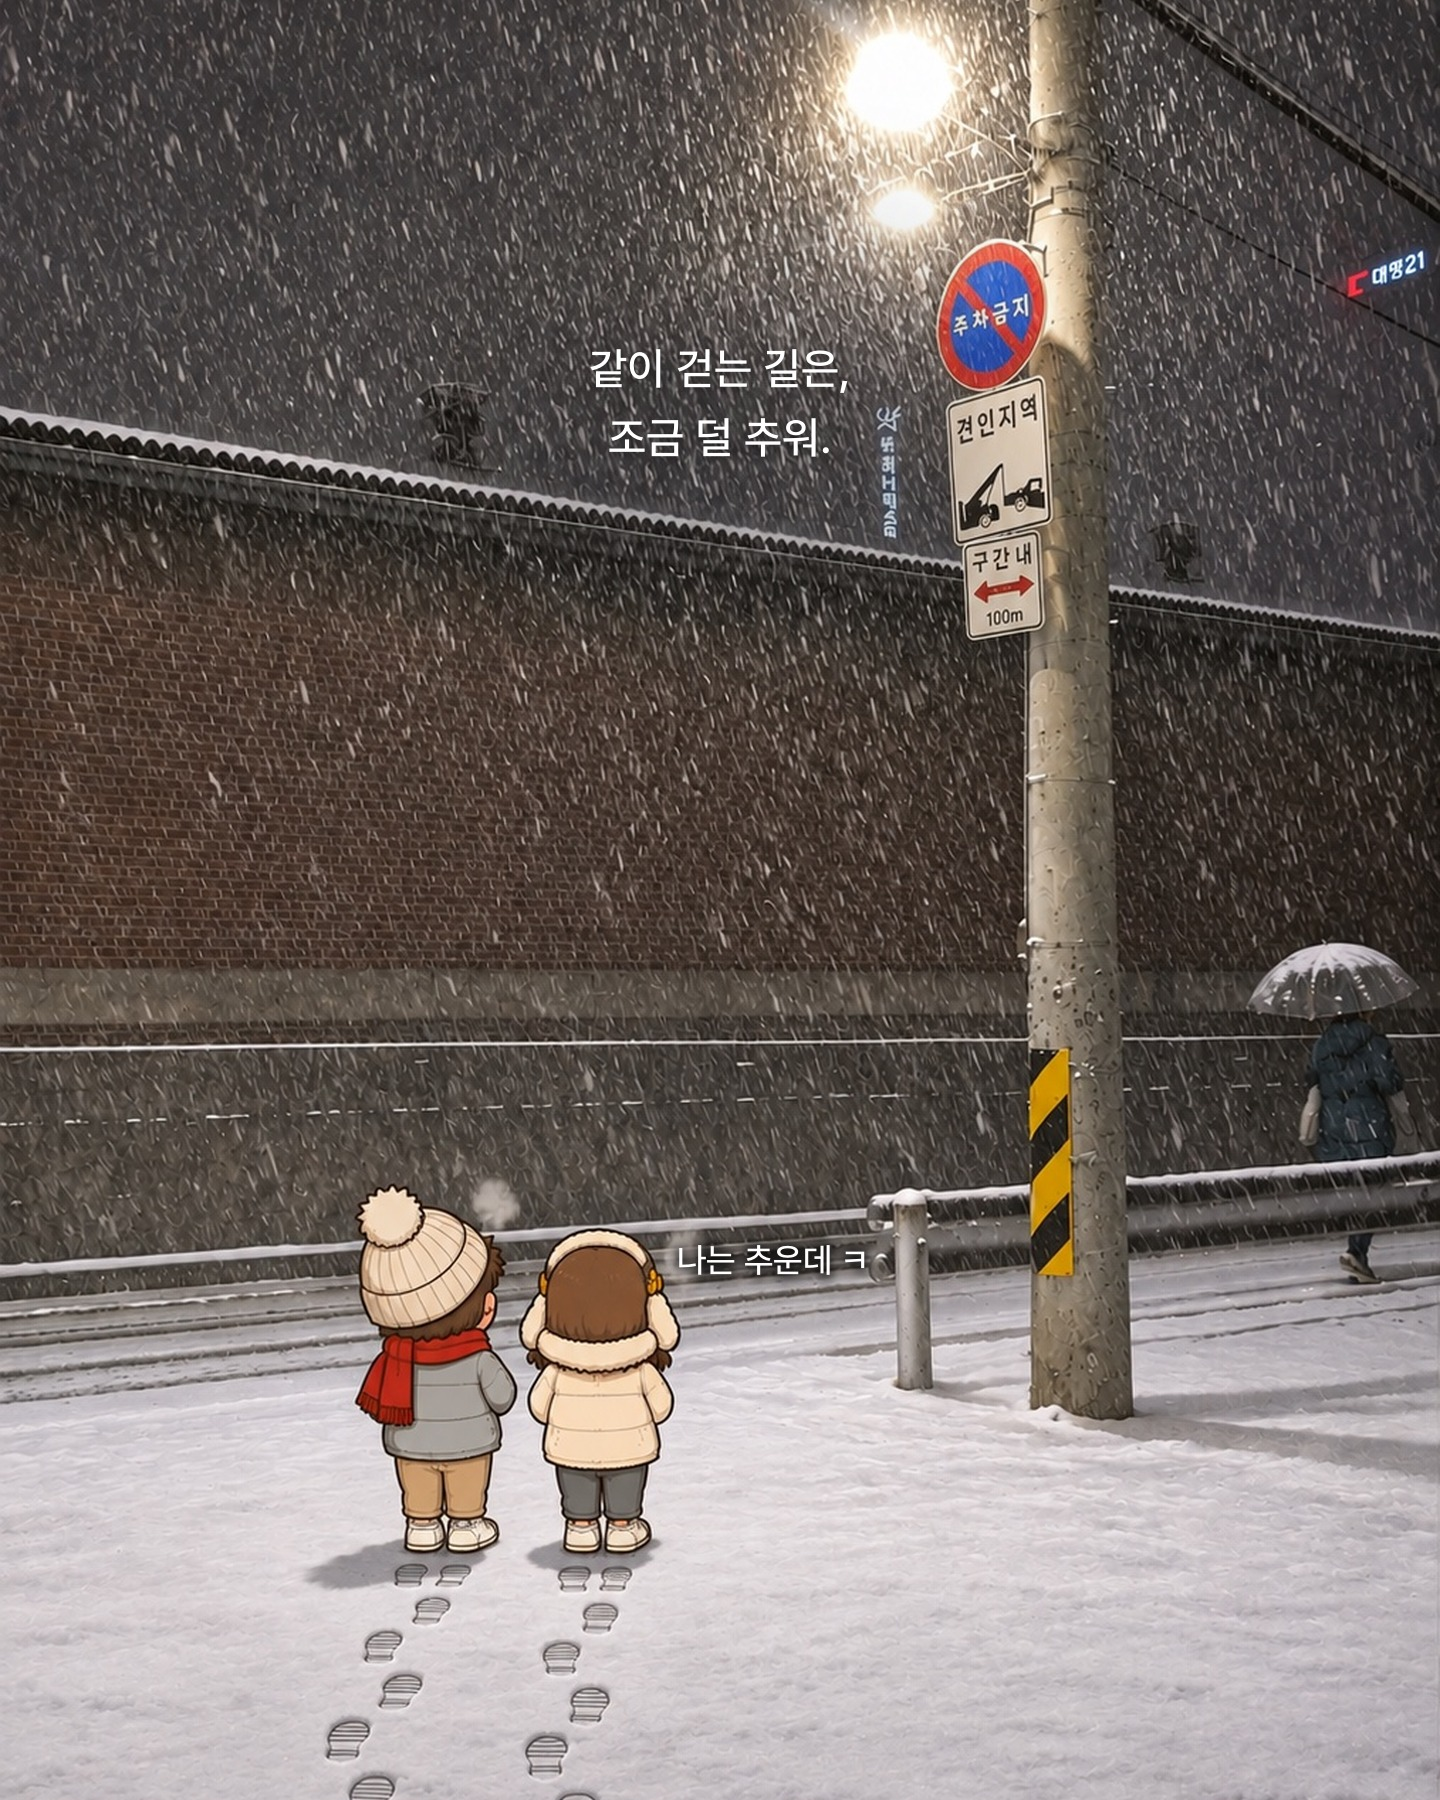
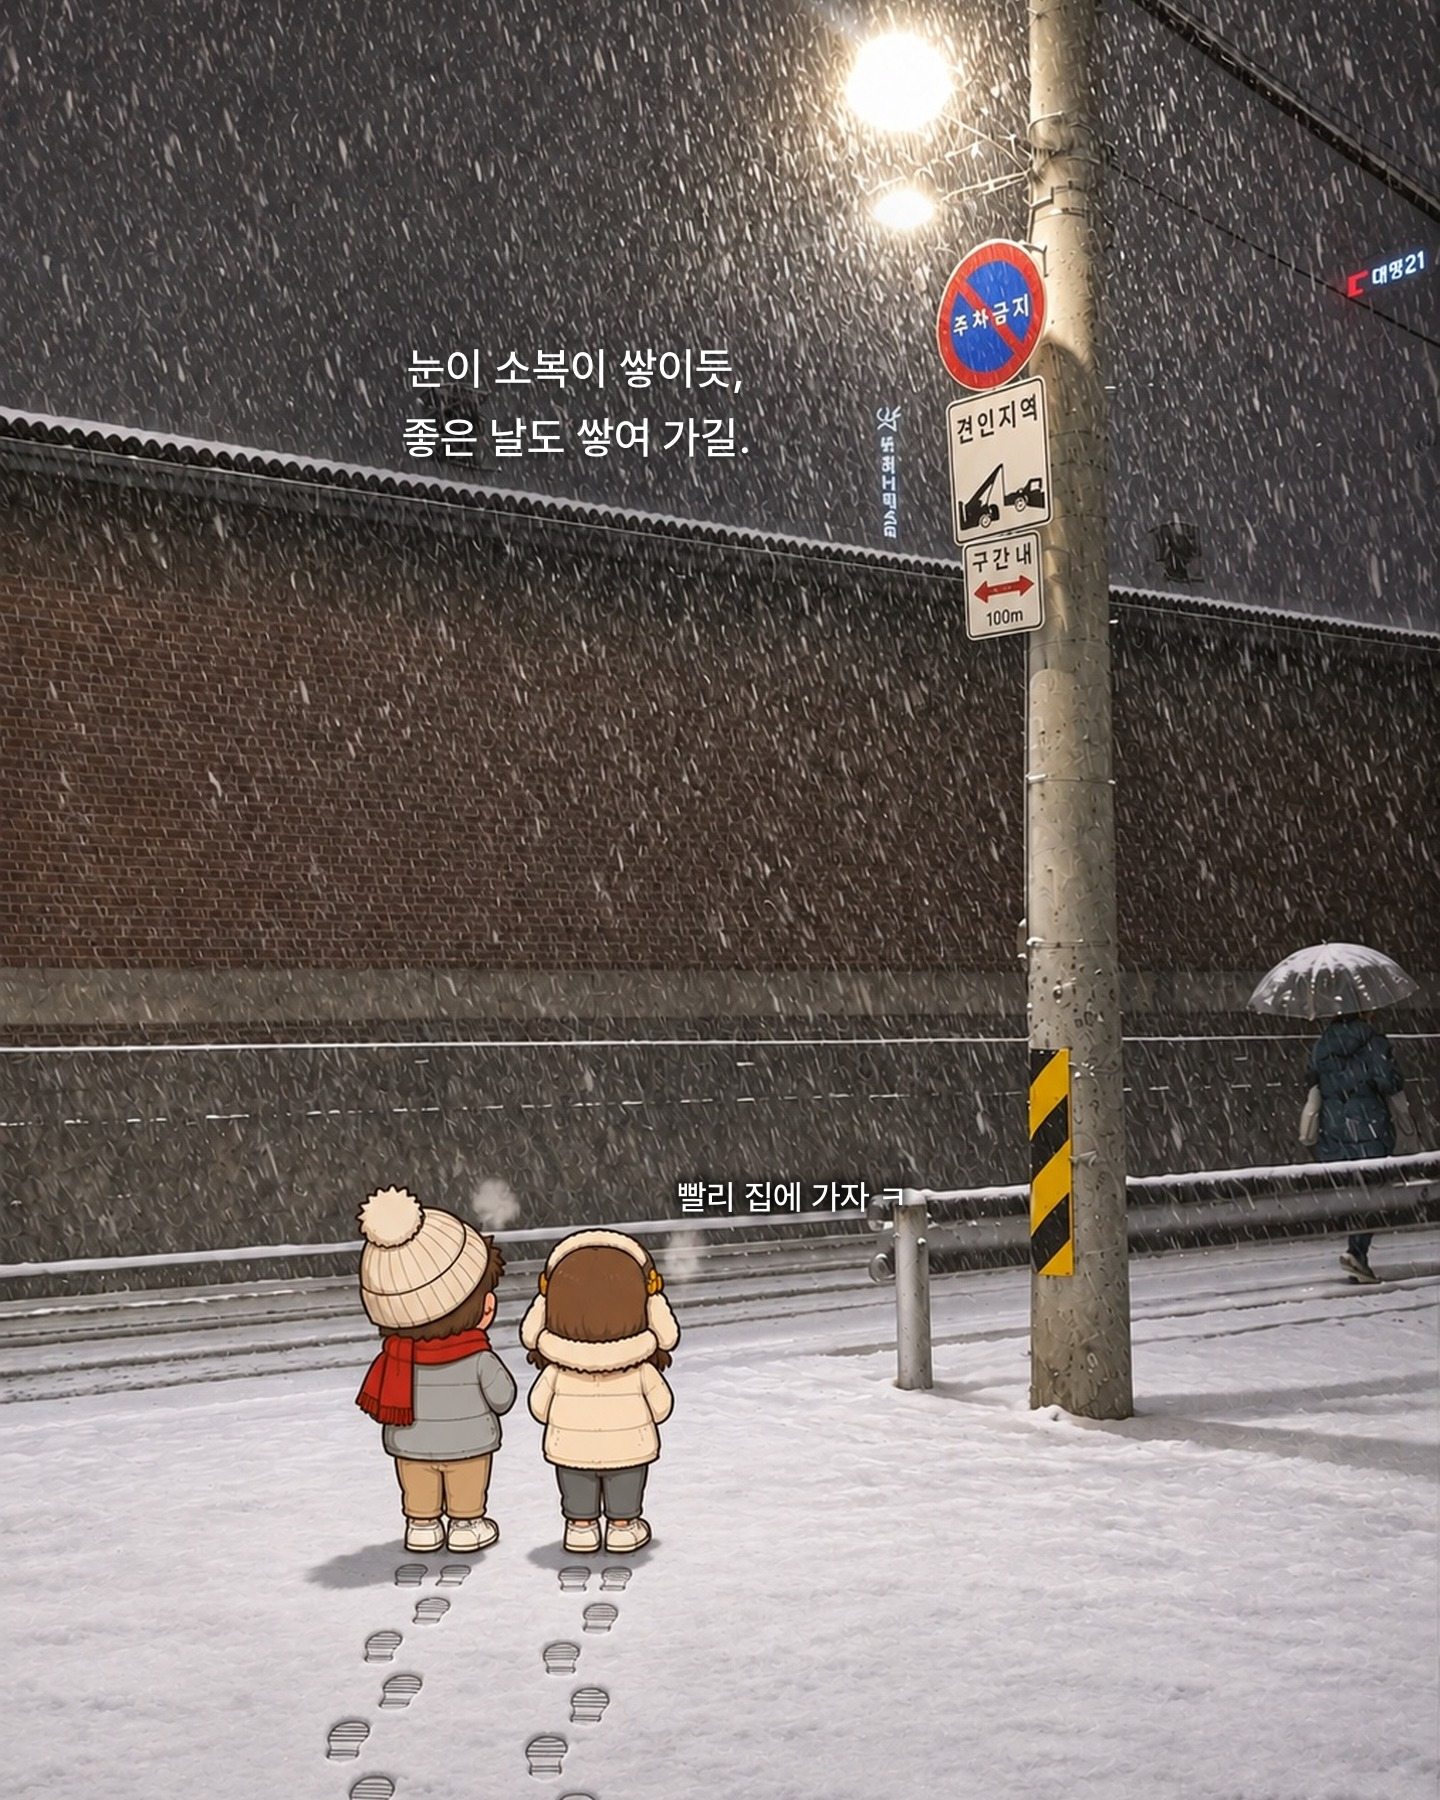
온이봄이 눈길 회차: 메인 글귀 W4, 혼잣말 '빨리 집에 가자 ㅋ', 글귀 가로 위치(copy_x) 옵션
Claude-Session: https://claude.ai/code/session_013eU9upHqCkSKw6QAxNnjDy

Changed region(s): [[0.2188, 0.1867, 0.5938, 0.28], [0.4688, 0.6533, 0.625, 0.7156], [0.6562, 0.2178, 0.6875, 0.2489]]

diff --git a/screendaily/cards.py b/screendaily/cards.py
@@ -1076,7 +1076,7 @@ def _font_for_glyph(name: str, glyph_px: float) -> ImageFont.FreeTypeFont:
 
 
 def _soft_text(im: Image.Image, lines: list[str], f, top: float, line_h: float, scrim: float,
-               blank_h: float | None = None) -> Image.Image:
+               blank_h: float | None = None, cx: float = 0.5) -> Image.Image:
     """가운데 정렬 흰 글씨 + 글자 뒤 아주 옅은 반투명 번짐(박스 안 보이게) + 옅은 그림자."""
     im = im.convert("RGBA")
     w, h = im.size
@@ -1092,7 +1092,7 @@ def _soft_text(im: Image.Image, lines: list[str], f, top: float, line_h: float, 
         return im.convert("RGB")
     d0 = ImageDraw.Draw(im)
     widths = [d0.textlength(t, font=f) for t, _ in pos]
-    x0, x1 = w / 2 - max(widths) / 2, w / 2 + max(widths) / 2
+    x0, x1 = w * cx - max(widths) / 2, w * cx + max(widths) / 2
     y0, y1 = pos[0][1], pos[-1][1] + line_h
     if scrim > 0:  # 번짐: 글자 영역보다 넓게, 크게 흐려서 테두리 없이
         pad_x, pad_y = line_h * 1.6, line_h * 1.0
@@ -1106,11 +1106,11 @@ def _soft_text(im: Image.Image, lines: list[str], f, top: float, line_h: float, 
     sh = Image.new("RGBA", im.size, (0, 0, 0, 0))
     ds = ImageDraw.Draw(sh)
     for t, yy in pos:
-        ds.text((w / 2, yy + line_h * 0.04), t, font=f, fill=(0, 0, 0, 110), anchor="ma")
+        ds.text((w * cx, yy + line_h * 0.04), t, font=f, fill=(0, 0, 0, 110), anchor="ma")
     im.alpha_composite(sh.filter(ImageFilter.GaussianBlur(max(1, line_h * 0.05))))
     d = ImageDraw.Draw(im)
     for t, yy in pos:
-        d.text((w / 2, yy), t, font=f, fill=(255, 255, 255, 250), anchor="ma")
+        d.text((w * cx, yy), t, font=f, fill=(255, 255, 255, 250), anchor="ma")
     return im.convert("RGB")
 
 
@@ -1123,7 +1123,7 @@ def _image_copy(im: Image.Image, text: str, cfg: dict) -> Image.Image:
     line_h = glyph * float(cfg.get("line", 1.75))
     n = sum(1 for ln in lines if ln.strip())
     top = h * float(cfg.get("top", 0.19) if n <= 3 else cfg.get("top_long", 0.16))
-    return _soft_text(im, lines, f, top, line_h, float(cfg.get("scrim", 0.30)))
+    return _soft_text(im, lines, f, top, line_h, float(cfg.get("scrim", 0.30)), cx=float(cfg.get("copy_x", 0.5)))
 
 
 def _image_aside(im: Image.Image, text: str, pos: str, cfg: dict) -> Image.Image:
@@ -1576,7 +1576,7 @@ def render_all(post: Post, config: dict) -> list[Image.Image]:
                 im = cover_crop(im, (W, H), _focus(post, (0.5, 0.5)))  # 위치는 cover_focus 로 조정
             cs = config.get("copy_style") or {}
             if post.copy and rel == post.images[0]:  # 첫 장 그림 위 글귀
-                im = _image_copy(im, post.copy, cs)
+                im = _image_copy(im, post.copy, dict(cs, copy_x=float(post.copy_x or 0.5)))
             if post.aside and rel == post.images[0]:  # 캐릭터 옆 작은 혼잣말
                 im = _image_aside(im, post.aside, post.aside_pos, cs)
             if config.get("image_watermark"):  # 채널명 (예: 공감툰 하단 가운데)

diff --git a/screendaily/post.py b/screendaily/post.py
@@ -107,6 +107,7 @@ class Post:
     recommend: list[Item] = field(default_factory=list)  # 정답 뒤 추천작 카드 (최대 4편)
     recommend_title: str = ""  # 추천작 카드 제목
     layout: str = ""           # letterbox = 위쪽 검은 칸 릴스 (format: reel 전용)
+    copy_x: str = ""           # 글귀 가로 중심 (0~1, 기본 0.5)
     aside: str = ""            # 캐릭터 옆 작은 혼잣말 (공감툰, 예: "나는 추운데 ㅋ")
     aside_pos: str = ""        # 혼잣말 위치 "가로,세로" (0~1, 최종 이미지 기준, 글자 왼쪽 가운데)
     copy: str = ""             # 완성 이미지(images:) 위에 프로그램이 얹는 글귀 (줄바꿈 그대로, 빈 줄 = 문장 사이 띄움)
@@ -308,6 +309,7 @@ def load_post(slot_dir: Path, config: dict) -> Post:
         layout=str(raw.get("layout", "") or "").lower(),
         copy=str(raw.get("copy", "") or "").strip("\n"),
         aside=str(raw.get("aside", "") or ""),
+        copy_x=str(raw.get("copy_x", "") or ""),
         aside_pos=str(raw.get("aside_pos", "") or ""),
     )
 

diff --git a/data/gongam_topics.md b/data/gongam_topics.md
@@ -150,3 +150,20 @@
 | S10 | 오늘 하루 수고한 너에게, / 별 하나 선물할게. | 12/14 |
 | S11 | 반짝이는 건 / 별만이 아니야, / 너도 그래. |  |
 | S12 | 별빛이 닿는 데도, / 오랜 시간이 걸린대. |  |
+
+## 눈 문구 (운영자 요청으로 작성, W번)
+
+| 번호 | 문장 | 사용 |
+|---|---|---|
+| W1 | 눈 오는 길도, / 둘이면 따뜻해. |  |
+| W2 | 차가운 눈 속에서도, / 네 옆은 포근해. |  |
+| W3 | 하얗게 덮인 길 위에, / 우리 발자국만 남았어. |  |
+| W4 | 눈이 소복이 쌓이듯, / 좋은 날도 쌓여 가길. | 눈길 뒷모습 (즉시 게시) |
+| W5 | 첫눈이 오는 날엔, / 괜히 네가 보고 싶어. |  |
+| W6 | 조용히 내리는 눈처럼, / 마음도 잠시 쉬어 가. |  |
+| W7 | 발이 시려도 괜찮아, / 같이 걷고 있으니까. |  |
+| W8 | 눈길 위 발자국처럼, / 나란히 걸어가자. |  |
+| W9 | 차가운 겨울에도, / 마음은 녹을 수 있어. |  |
+| W10 | 하얀 눈 위에, / 오늘의 걱정을 묻어 두자. |  |
+| W11 | 추운 날일수록, / 곁이 더 소중해. |  |
+| W12 | 눈이 그치면, / 더 맑은 하늘이 올 거야. |  |
